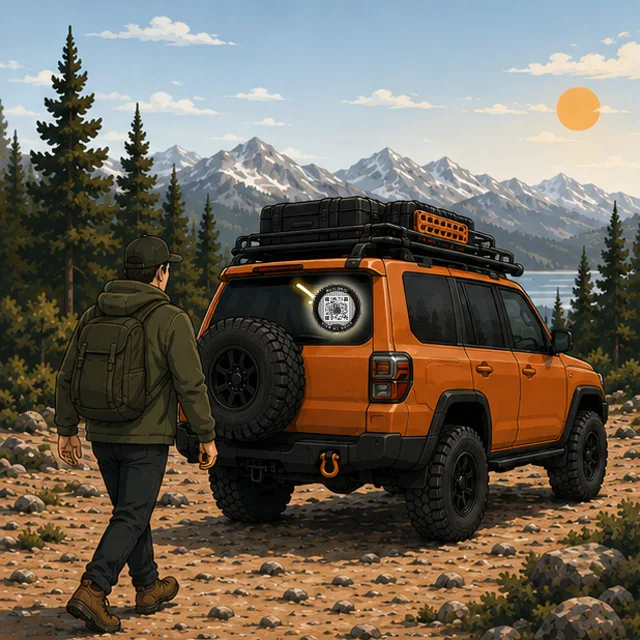
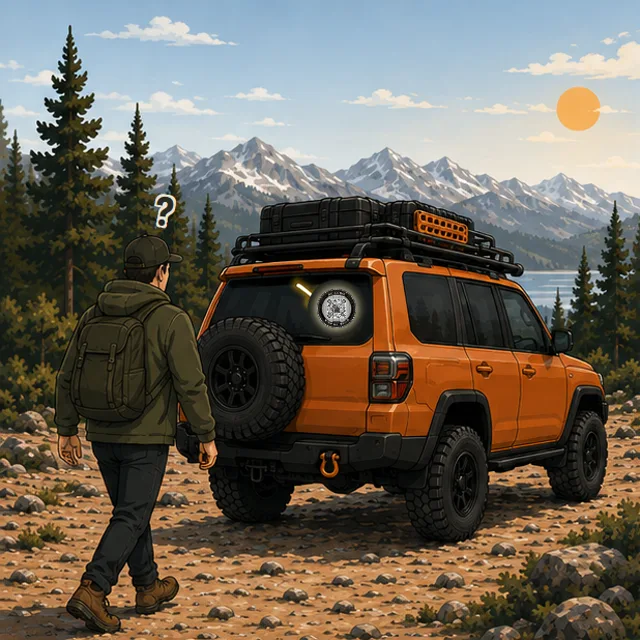
pages(index): tutorial founder round 3 — p1 sticker -20% + question mark; p3 tagline SEE IT. SCAN IT. BUILD IT. + subtitle redraw; p4 header angled with phone (rule inside band)
Claude-Session: https://claude.ai/code/session_01CMAdjZM9q42eFNJNvVGHwZ

Changed region(s): [[0.4688, 0.4062, 0.5938, 0.5312], [0.2188, 0.2812, 0.2812, 0.375]]

diff --git a/assets/tutorial/compose.html b/assets/tutorial/compose.html
@@ -4,28 +4,28 @@
   .panel{position:relative;width:618px;height:618px;overflow:hidden}
   .panel img.bg{position:absolute;inset:0;width:100%;height:100%}
   .stk{position:absolute;border-radius:50%;box-shadow:0 0 10px 3px rgba(255,240,200,.85)}
-  .patch{position:absolute;background:#faf7f2;display:flex;align-items:center;gap:6px;justify-content:flex-start}
-  .patch .bmark{height:170%;width:auto;margin-left:-8px;margin-right:-16px}
-  .patch .wm{font-family:'Barlow Condensed',sans-serif;font-weight:700;letter-spacing:.5px}
-  .patch .wm .o{color:#E85D2C}.patch .wm .g{color:#5C6B3A}
   .hdr{position:absolute;background:#faf7f2;display:flex;align-items:center;padding:0 12px;gap:8px;border-bottom:3px solid #232323;box-sizing:border-box}
   .hdr .bmark{height:150%;width:auto;margin:0 -14px 0 -10px}
   .hdr .wm{font-family:'Barlow Condensed',sans-serif;font-weight:700;letter-spacing:.5px}
   .hdr .wm .o{color:#E85D2C}.hdr .wm .g{color:#5C6B3A}
   .hdr .ham{margin-left:auto;display:flex;flex-direction:column;gap:4px}
   .hdr .ham i{display:block;width:22px;height:3.5px;background:#232323;border-radius:2px}
-  .hdr .arr{font-family:'Barlow Condensed',sans-serif;font-weight:700;font-size:26px;color:#232323;margin-right:2px}
 </style>
 <link href="https://fonts.googleapis.com/css2?family=Barlow+Condensed:wght@700&display=swap" rel="stylesheet">
+
 <div class="panel" id="p1">
   <img class="bg" src="p1_raw.png">
-  <img class="stk" src="../qr/qr-demo-master-v6-final.webp" style="left:301px;top:274px;width:48px;height:48px">
+  <div style="position:absolute;left:297px;top:270px;width:56px;height:56px;border-radius:50%;background:radial-gradient(circle at 45% 40%,#20241f 0%,#161a16 60%,#121512 100%)"></div>
+  <img class="stk" src="../qr/qr-demo-master-v6-final.webp" style="left:306px;top:279px;width:38px;height:38px;box-shadow:0 0 9px 2px rgba(255,236,190,.8)">
+  <div style="position:absolute;left:150px;top:178px;font-family:'Barlow Condensed',sans-serif;font-weight:700;font-size:40px;color:#2a2a26;transform:rotate(9deg);text-shadow:-2px -2px 0 #e8e2d2,2px -2px 0 #e8e2d2,-2px 2px 0 #e8e2d2,2px 2px 0 #e8e2d2,0 3px 6px rgba(0,0,0,.35)">?</div>
 </div>
+
 <div class="panel" id="p2">
   <img class="bg" src="p2_raw.png">
   <img class="stk" src="../qr/qr-demo-master-v6-final.webp" style="left:163px;top:239px;width:60px;height:60px">
   <img class="stk" src="../qr/qr-demo-master-v6-final.webp" style="left:347px;top:242px;width:66px;height:66px;box-shadow:0 0 14px 4px rgba(255,220,160,.9)">
 </div>
+
 <div class="panel" id="p3">
   <img class="bg" src="p3_raw.png">
   <div class="hdr" style="left:233px;top:57px;width:238px;height:54px;border-radius:10px 10px 0 0">
@@ -33,12 +33,15 @@
     <div class="wm" style="font-size:31px"><span class="o">BUILD</span><span class="g">BIO</span></div>
     <div class="ham"><i></i><i></i><i></i></div>
   </div>
+  <div style="position:absolute;left:196px;top:288px;width:236px;height:194px;background:linear-gradient(135deg,#ece1d3,#e2d6c6);transform:rotate(8deg);transform-origin:left top"></div>
+  <div style="position:absolute;left:212px;top:296px;transform:rotate(8deg);transform-origin:left top;font-family:'Barlow Condensed',sans-serif;font-weight:700;font-size:39px;line-height:.98;letter-spacing:.5px;color:#26231a">SEE IT.<br>SCAN IT.<br><span style="color:#c2571e">BUILD IT.</span><div style="font-family:Arial,Helvetica,sans-serif;font-weight:500;font-size:15.5px;letter-spacing:.2px;color:#2b281f;margin-top:12px">Your Aftermarket Blueprint.</div></div>
 </div>
+
 <div class="panel" id="p4">
   <img class="bg" src="p4_raw.png">
-  <div style="position:absolute;inset:0;background:#e8ded0;clip-path:polygon(182px 39.5px,250px 41px,395px 41px,452px 37.5px,458px 90px,180px 84px)"></div>
-  <div style="position:absolute;left:180px;top:82.5px;width:279px;height:3px;background:#232323;transform:rotate(1.24deg);transform-origin:left top;border-radius:2px"></div>
-  <div style="position:absolute;left:190px;top:45px;width:256px;height:38px;transform:rotate(-1deg);display:flex;align-items:center;gap:7px">
+  <div style="position:absolute;inset:0;background:#e8ded0;clip-path:polygon(182px 39.5px,250px 41px,395px 41px,452px 37.5px,458px 92px,181px 92px)"></div>
+  <div style="position:absolute;left:182px;top:88px;width:274px;height:3px;background:#232323;transform:rotate(-2.4deg);transform-origin:left top;border-radius:2px"></div>
+  <div style="position:absolute;left:190px;top:42px;width:256px;height:38px;transform:rotate(-2.4deg);display:flex;align-items:center;gap:7px">
     <div style="font-family:'Barlow Condensed',sans-serif;font-weight:700;font-size:24px;color:#232323">&#8592;</div>
     <img src="../../images/bg/bb-logo.png" style="height:58px;width:auto;margin:0 -14px 0 -10px">
     <div style="font-family:'Barlow Condensed',sans-serif;font-weight:700;font-size:25px;letter-spacing:.5px"><span style="color:#E85D2C">BUILD</span><span style="color:#5C6B3A">BIO</span></div>
